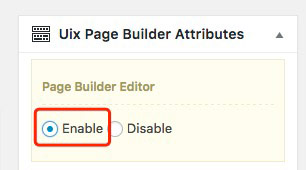
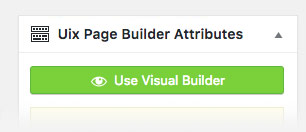
Update

diff --git a/helper/tabs/usage.php b/helper/tabs/usage.php
@@ -29,7 +29,7 @@ Or, upload the plugin to wordpress, Activate it. (Access the path (/wp-content/p
         </p> 
         
          <p>
-           <?php _e( '<p>You will find <strong>"Uix Page Builder Attributes"</strong> settings in a meta box in your WordPress backend when you create a new page or when you are editing an existing one. This box is usually directly above the "Publish" meta box.</p>', 'uix-page-builder' ); ?>
+           <?php _e( '<p>You will find <strong>"Uix Page Builder Attributes"</strong> settings in a meta box in your WordPress backend when you create a new page or when you are editing an existing one. This box is usually directly above the "Publish" meta box. <br>Click <strong>"Use Visual Builder"</strong> button to enter the visual editing mode.</p>', 'uix-page-builder' ); ?>
         </p>   
         <p>
            <img src="<?php echo UixPageBuilder::plug_directory(); ?>helper/img/active.jpg" alt="">

diff --git a/helper/tabs/about.php b/helper/tabs/about.php
@@ -35,6 +35,12 @@ if( !isset( $_GET[ 'tab' ] ) || $_GET[ 'tab' ] == 'about' ) {
            
         
         </p>   
+        
+          <p>
+ 			<iframe width="560" height="315" src="https://www.youtube.com/embed/QAgNtpaY0sw" frameborder="0" allowfullscreen></iframe>
+        
+        </p>   
+  
   
     
 <?php } ?>

diff --git a/uix-page-builder.php b/uix-page-builder.php
@@ -1056,7 +1056,7 @@ class UixPageBuilder {
 	 */
 	public static function usage_notice_app() {
 		
-		if( self::page_builder_mode() ) {
+		if( self::page_builder_general_mode() ) {
 		
 			global $current_user ;
 			$user_id = $current_user->ID;

diff --git a/README.md b/README.md
@@ -18,7 +18,7 @@ Licensed under the [GPL3.0](http://www.gnu.org/licenses/gpl-3.0.en.html).
 ### Description
 
 
-[![Uix Page Builder Live Demo](https://github.com/xizon/Uix-Page-Builder/blob/master/screenshots/video-cover.jpg)](https://www.youtube.com/watch?v=G8xHi6ymp7E "Uix Page Builder Live Demo")
+[![Uix Page Builder Live Demo](https://github.com/xizon/Uix-Page-Builder/blob/master/screenshots/video-cover.jpg)](https://www.youtube.com/watch?v=QAgNtpaY0sw "Uix Page Builder Live Demo")
 
 
 Uix Page Builder is a design system that it is simple content creation interface. The currently available default elements: `parallax`, `google maps`,  `pricing table`, `features boxes`, `testimonials carousel`, `team`, `list of clients`, `accordion`, `tabs`, `author card`, `contact form` and `portfolio`. To be continued.  
@@ -168,7 +168,9 @@ Or, upload the plugin to wordpress, Activate it. (Access the path (/wp-content/p
 ![](https://github.com/xizon/Uix-Page-Builder/blob/master/helper/img/add-page.jpg)
 
 
-You will find **"Uix Page Builder Attributes"** settings in a meta box in your WordPress backend when you create a new page or when you are editing an existing one. This box is usually directly above the "Publish" meta box.
+You will find **"Uix Page Builder Attributes"** settings in a meta box in your WordPress backend when you create a new page or when you are editing an existing one. This box is usually directly above the "Publish" meta box. 
+
+Click **"Use Visual Builder"** button to enter the visual editing mode.
 
 
 ![](https://github.com/xizon/Uix-Page-Builder/blob/master/helper/img/active.jpg)
